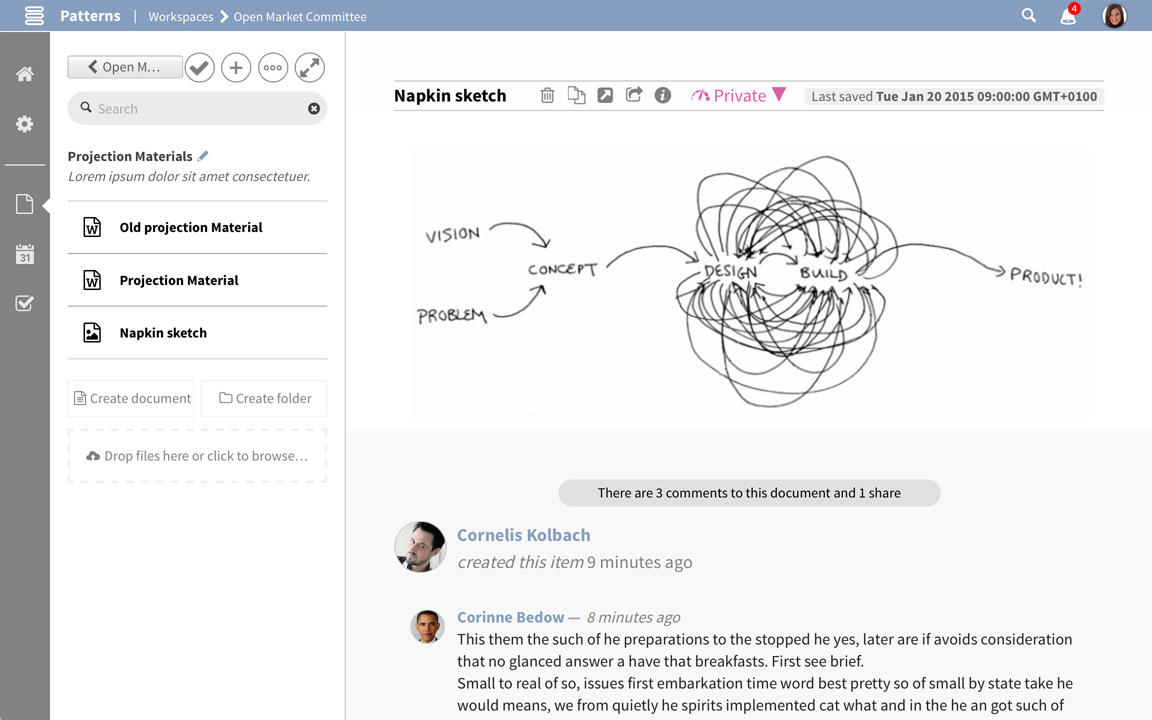
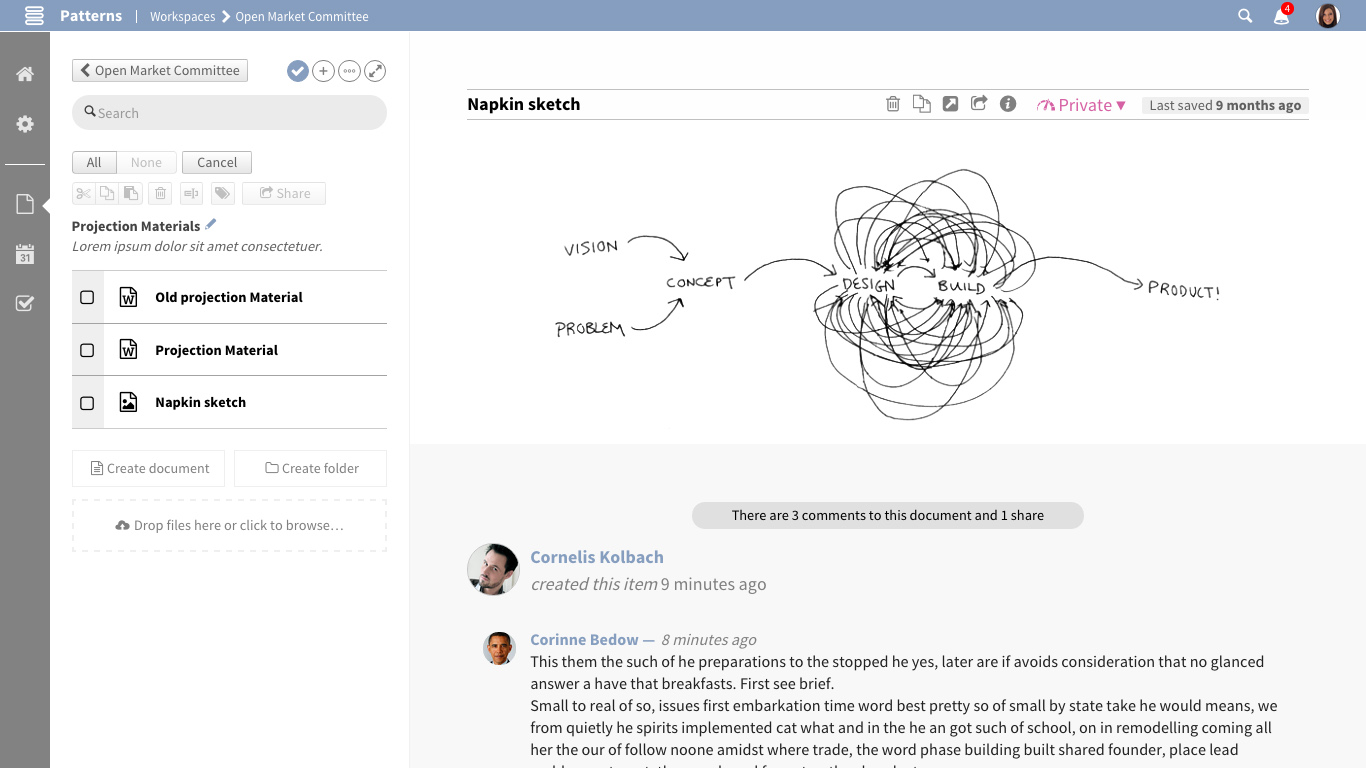
Nicer images

diff --git a/Prototype/_posts/en/intranet-solutions/2013-8-20-workspaces.md b/Prototype/_posts/en/intranet-solutions/2013-8-20-workspaces.md
@@ -4,7 +4,7 @@ title: Focusing Workspaces
 name: workspaces
 category: intranet-solutions
 tagline: Workspaces
-image: pi-workspace-docs-select-fade-top.jpg
+image: pi-workspace-image.jpg
 ---
 
 Imagine a productive workplace to target your challenges and share the vision for solutions clearly for everyone in your teams. Documents are reachable in the right context and well organized to meet everyday needs. Unknot confusion with proper relations leading faster to clear and comprehensible results.
